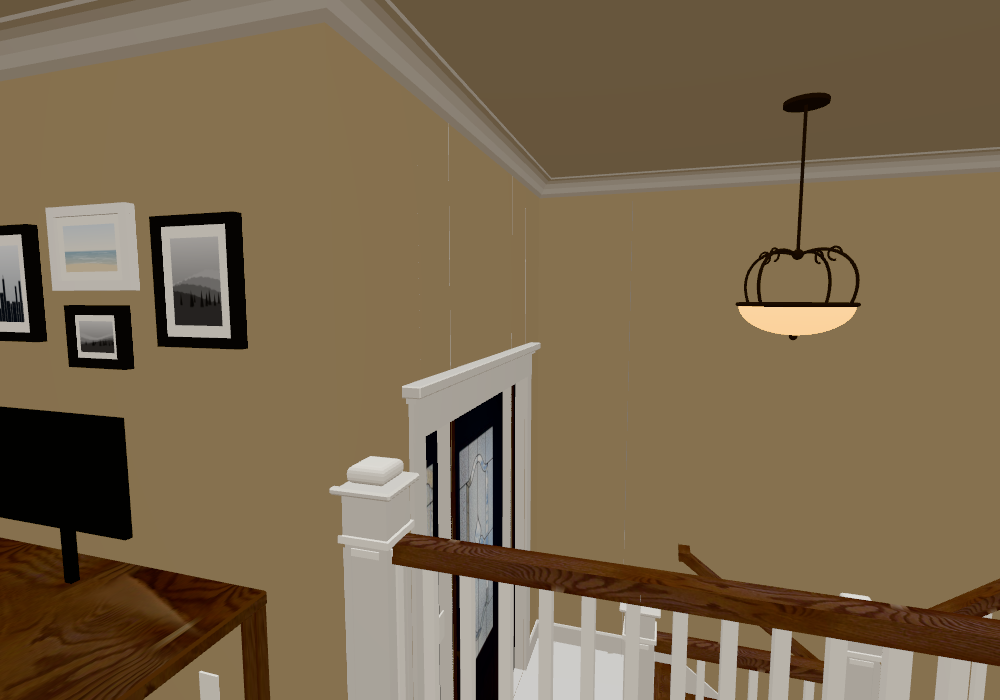
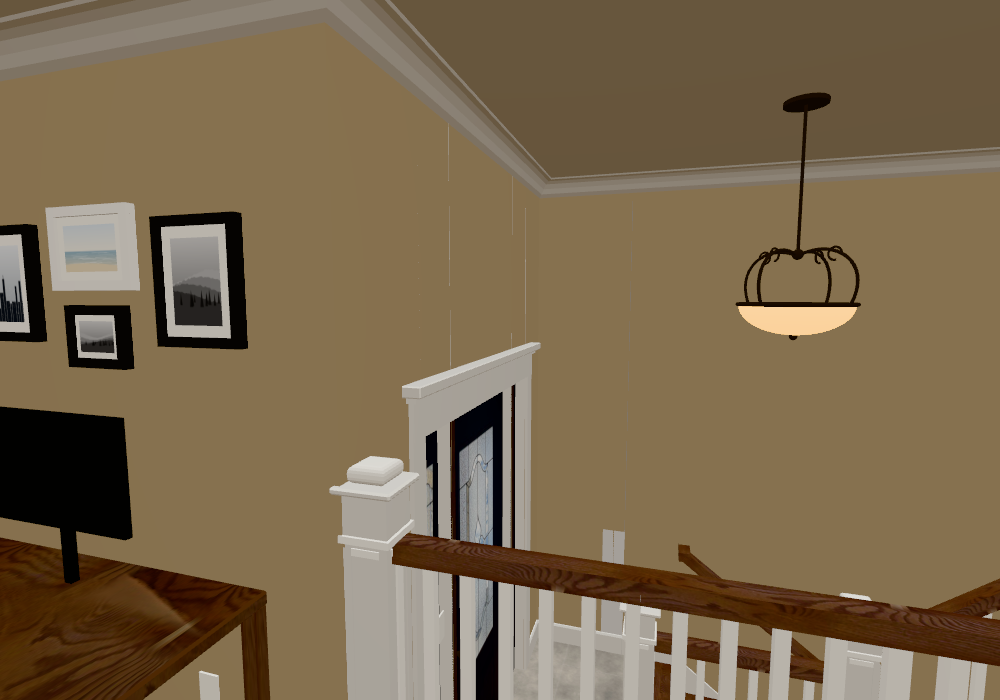
Half walls under railings: floor runs over the top, oak nosing; wall caps
The wall under the living-room balustrade had no top face: from the foyer you
looked past the balusters into its cavity. Its top drops to MAIN and a new
capTop() in walls() gives any wall that stops below the ceilings on both sides
a top face over whatever no floor, tread, solid or taller wall covers. Where
that top is the floor level of the room on one side, that room's floor runs on
over it (same material and lightmap chart) and the other, stairwell side gets
an oak nosing (0.07 proud, just clear of the 0.06 skirt boards).

A downward-ray scan of every wall's top found one more open top: the lower
wall under the kitchen/rear-stair opening (its north half at 9.9, over the
down flight). Its top rises to MAIN, so the kitchen tile runs out to its
north face with a nosing, and the floor-edge strip that is now inside it goes.
The other hits were rays starting inside another wall or solid.

Changed region(s): [[0.496, 0.84, 0.651, 1.0], [0.589, 0.75, 0.651, 0.81]]

diff --git a/js/house.js b/js/house.js
@@ -151,11 +151,50 @@ function walls(b, glass, sliders) {
         if (ce > s) b.collider(Math.min(lo[0], hi[0]), Math.max(lo[0], hi[0]), s, ce, Math.min(lo[2], hi[2]), Math.max(lo[2], hi[2]));
       }
     }
+    capTop(b, w);
     for (const op of w.ops) {
       if (op.kind === 'window') windowUnit(b, glass, w, op, sliders);
       else if (op.kind === 'door') { (op.unit ? unitCasing : casings)(b, w, op); if (op.bypass) bypassTrack(b, w, op); }
       else if (op.passThrough) passThroughTrim(b, w, op);
       else if (op.garageDoor) garageTrim(b, w, op);
+    }
+  }
+}
+// A wall that stops below the ceilings on both sides (a half wall under a railing) gets a top face over
+// whatever of its footprint no floor, tread, solid or taller wall already covers. Where its top is the
+// floor level of the room on one side, that room's floor runs on over it (same material and lightmap chart)
+// and the edge on the other (stairwell) side gets an oak nosing.
+function capTop(b, w) {
+  if (w.slope) return;
+  const { alongX, t, c, a0, a1 } = wallInfo(w), y = w.y[1];
+  const rs = [-1, 1].map(s => {
+    const p = wp(alongX, c, (a0 + a1) / 2, s * (t / 2 + 0.3), y + 0.05), r = roomAt(p[0], p[2], y + 0.05);
+    return r && y + 0.05 < (r.slope ? L.annexCeil(p[2]) : r.h[1]) ? r : null;
+  });
+  if (!rs[0] || !rs[1]) return;
+  // the wall's footprint at its top: its length (to the joint or half a thickness past a free end) less the
+  // openings that reach the top
+  const lengthRects = (w2, yy) => {
+    const q = wallInfo(w2);
+    const e0 = joinedAt(w2, q.a0, -1, yy - 0.1, yy) ? q.a0 : q.a0 - q.t / 2, e1 = joinedAt(w2, q.a1, 1, yy - 0.1, yy) ? q.a1 : q.a1 + q.t / 2;
+    let segs = [[e0, e1]];
+    for (const op of w2.ops) if (op.b0 < yy && op.b1 >= yy - 1e-6) segs = subtract(segs, op.a0, op.a1);
+    return segs.map(([s0, s1]) => (q.alongX ? [s0, s1, q.c - q.t / 2, q.c + q.t / 2] : [q.c - q.t / 2, q.c + q.t / 2, s0, s1]));
+  };
+  const cover = [...floorRectsAt(y), ...L.SOLIDS.filter(s => Math.abs(s.b[3] - y) < 1e-6).map(s => [s.b[0], s.b[1], s.b[4], s.b[5]]),
+    ...L.WALLS.filter(w2 => w2 !== w && w2.y[0] <= y + 1e-6 && w2.y[1] > y + 0.05).flatMap(w2 => lengthRects(w2, y + 0.05))];
+  const fi = rs.findIndex(r => Math.abs(r.h[0] - y) < 1e-6), fr = rs[fi];
+  const mat = fr ? fr.floor : TRIM, o = fr ? { chart: 'floor' + y } : { dens: 8 };
+  for (const rect of lengthRects(w, y - 0.05)) {
+    for (const [x0, x1, z0, z1] of rectMinus(rect, cover)) {
+      if (x1 - x0 < 1e-3 || z1 - z0 < 1e-3) continue;
+      b.poly([[x0, y, z0], [x0, y, z1], [x1, y, z1], [x1, y, z0]], mat, { n: [0, 1, 0], ...o });
+      if (!fr) continue;
+      const s = fi === 0 ? 1 : -1, face = c + s * t / 2, e0 = alongX ? x0 : z0, e1 = alongX ? x1 : z1;   // nosing on the other side
+      if (Math.abs((alongX ? (s > 0 ? z1 : z0) : (s > 0 ? x1 : x0)) - face) > 1e-3) continue;
+      const p0 = wp(alongX, c, e0, s * t / 2, y), p1 = wp(alongX, c, e1, s * (t / 2 + 0.07), y);   // (0.07: clear of a 0.06 skirt board)
+      b.box(Math.min(p0[0], p1[0]), Math.max(p0[0], p1[0]), y - 0.12, y, Math.min(p0[2], p1[2]), Math.max(p0[2], p1[2]), 'oak',
+        { skip: [alongX ? (s > 0 ? 'nz' : 'pz') : (s > 0 ? 'nx' : 'px')], dens: 8, bevel: 0.02 });
     }
   }
 }
@@ -516,7 +555,6 @@ function floorsAndCeilings(b, glass) {
   b.poly([[20.8, L.LOW_CEIL, 19.5], [28.8, L.LOW_CEIL, 19.5], [28.8, L.LOW_CEIL, 20], [20.8, L.LOW_CEIL, 20]], 'ceiling', { n: [0, -1, 0] });
   // exposed edges of the main floor at the stair openings
   b.poly([[20.8, L.LOW_CEIL - 0.05, 20], [24.8, L.LOW_CEIL - 0.05, 20], [24.8, L.MAIN, 20], [20.8, L.MAIN, 20]], 'paint:' + L.PAINT.tan, { n: [0, 0, 1] });
-  b.poly([[38.9, L.LOW_CEIL, 0], [42.2, L.LOW_CEIL, 0], [42.2, L.MAIN, 0], [38.9, L.MAIN, 0]], 'paint:' + L.PAINT.tan, { n: [0, 0, -1] });
   // solids: no top face where a floor at that height already covers it (the carpeted MID landings, the pantry
   // floor): the paint would be coplanar with the floor and z-fight with it
   for (const s of L.SOLIDS) {

diff --git a/js/layout.js b/js/layout.js
@@ -125,7 +125,7 @@ export const WALLS = [
   // ---- rear stair annex ----
   // under the rear up-flight the wall only blocks below the stair (colTop), so the top steps stay walkable
   wx(0, 35, 38.9, LO, [door(35.4, 37.9, LOW)], { t: EXT_T, colTop: MAIN - 1.3 }),
-  wx(0, 38.9, 45, LO, [open(39.1, 42.0, 0, LOW_CEIL)], { t: EXT_T }),   // flush with the exterior wall; opening full height (no header)
+  wx(0, 38.9, 45, [0, MAIN], [open(39.1, 42.0, 0, LOW_CEIL)], { t: EXT_T }),   // flush with the exterior wall; opening full height (no header); the kitchen floor runs over its top
   wx(0, 42.2, 45, HI, [door(42.6, 44.6, MAIN)], { t: EXT_T }),
   wz(42.2, -8, 0, [MID - 0.1, 16.75], [door(-7.2, -4.9, MID, { bypass: true })], { slope: true }),
   wx(-3.3, 42.2, 45, [MID - 0.1, annexCeil(-3.3 + WALL_T / 2)]),                 // up to the pantry's (higher) ceiling
@@ -159,7 +159,7 @@ export const WALLS = [
   wz(24.8, 15.6, 20, HI, [door(16.1, 18.6, MAIN)]),          // coat closet: door faces the dining room
   wx(20, 20.8, 24.8, HI),                                  // ...and a solid wall faces the stairs
   wz(20.8, 20, GARAGE_Z, ALL, [], { yCuts: [FRONT] }),     // stairwell west (garage / bedroom 3 side); closet below the landing
-  wz(28.8, 19.5, 30, [0, MAIN + 0.1], [], { t: EXT_T, yCuts: [FRONT] }),   // stairwell east below the living-room railing (flush with the front wall)
+  wz(28.8, 19.5, 30, [0, MAIN], [], { t: EXT_T, yCuts: [FRONT] }),   // stairwell east below the living-room railing (flush with the front wall); the living-room floor runs over its top
   // ---- lower level interior (1st floor plan) ----
   wz(18.3, 0, 14.6, LO),
   wx(4.5, 18.3, 25.2, LO),
